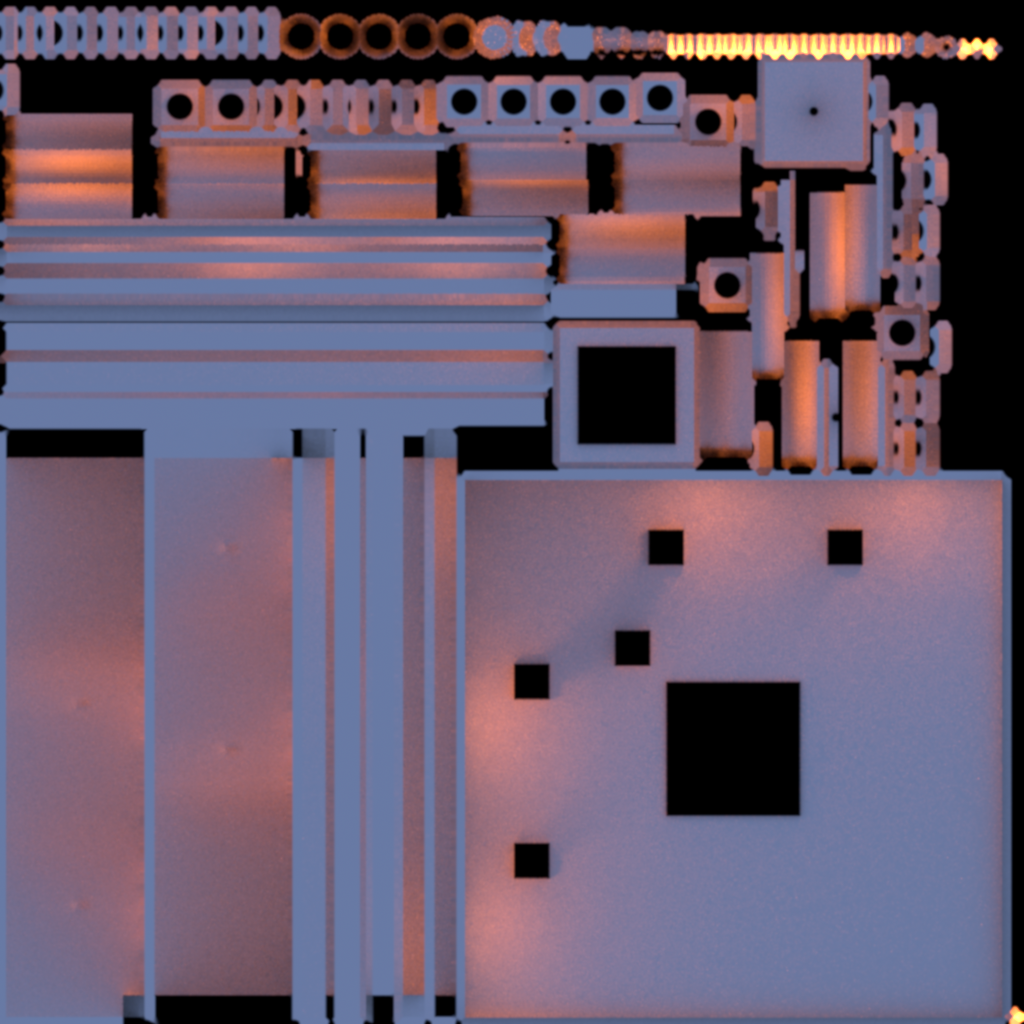
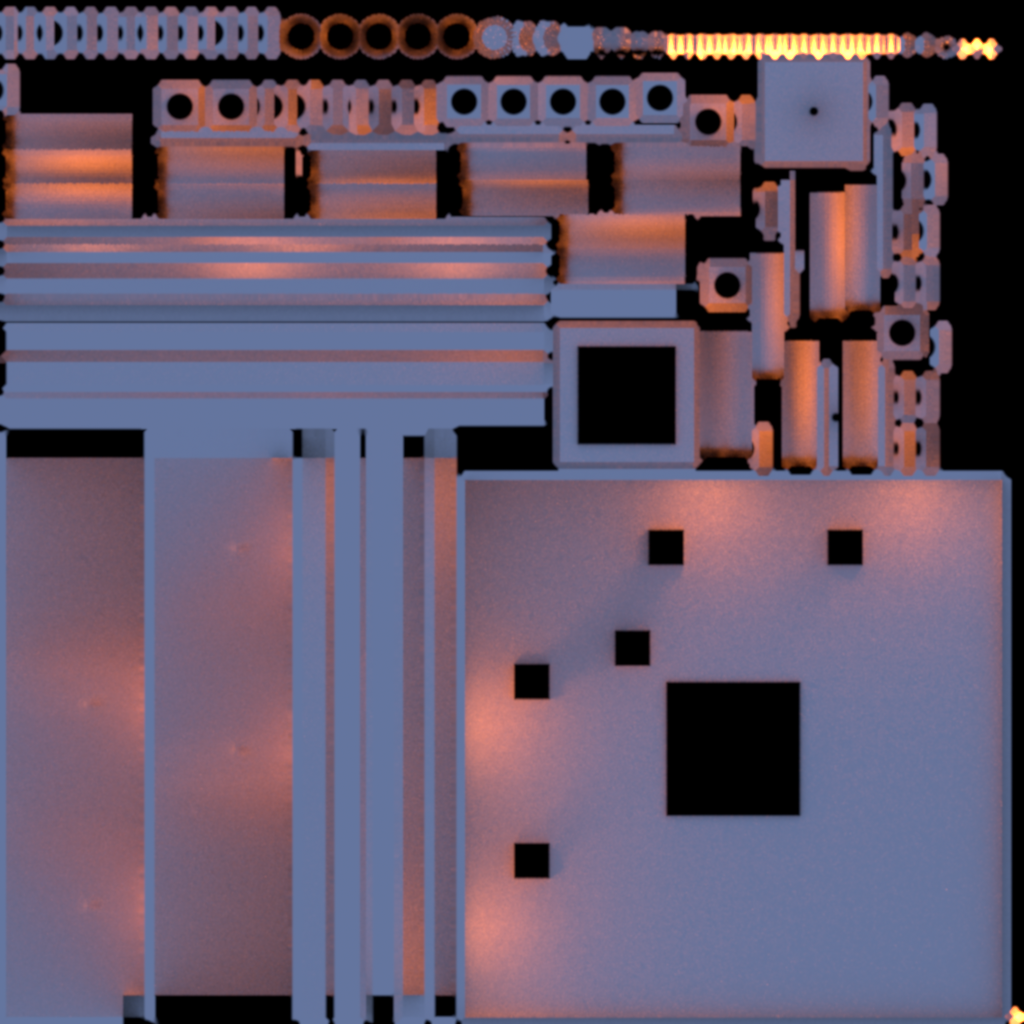
Scale fires, torches, and stone textures to realistic sizes
Flames were up to 1.1 m tall and textures stretched so each flagstone read
as 60-100 cm, which made the character look tiny. Flames are now 0.3-0.55 m,
wall torches sit at about 2.1 m, and texture repeats match real stone sizes.
Re-baked the lightmap; the bake now defaults to 512 samples.

diff --git a/tools/blender/bake_level.py b/tools/blender/bake_level.py
@@ -4,7 +4,7 @@ and exports the result for the game.
 
 Run from anywhere (paths resolve from this file):
   /Applications/Blender.app/Contents/MacOS/Blender --background --factory-startup \
-      --python tools/blender/bake_level.py -- data/levels/test-room.json [--size 1024] [--samples 256]
+      --python tools/blender/bake_level.py -- data/levels/test-room.json [--size 1024] [--samples 512]
 
 Writes public/assets/levels/<name>/:
   level.glb       geometry, one mesh per material, UV0 for textures and UV1 for the lightmap
@@ -88,7 +88,7 @@ def parse_args():
     parser = argparse.ArgumentParser(description=__doc__.strip().splitlines()[0])
     parser.add_argument('layout', help='Path to the level layout JSON')
     parser.add_argument('--size', type=int, default=1024, help='Lightmap resolution')
-    parser.add_argument('--samples', type=int, default=256, help='Cycles samples per bake pass')
+    parser.add_argument('--samples', type=int, default=512, help='Cycles samples per bake pass')
     return parser.parse_args(argv)
 
 
